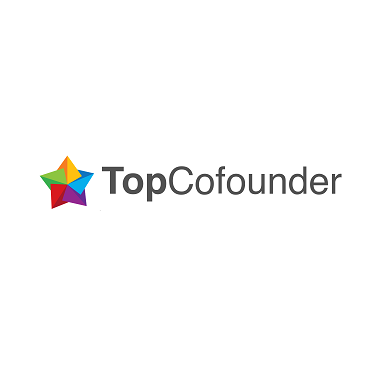
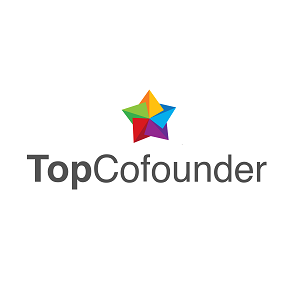
updated tasky and profile pic

Changed region(s): [[0.09, 0.3, 0.93, 0.63]]

diff --git a/content/_index.md b/content/_index.md
@@ -14,10 +14,9 @@ outputs:
 <p>I'm currently working on a startup studio.</p> -->
 
 <ul>
+  <li>Founder of <a href="http://www.topcofounder.com/">TopCofounder</a>, a startup studio that turns ideas into companies and recruits the best cofounders to run them. More details <a href="/blogs/saas/">here</a>.</li>
   <li>Senior accountant experienced with financial reporting, accounting systems, budgeting, and forecasting.</li>
   <li>Full stack web developer using React, Node.js, and cloud infrastructure (AWS & GCP).</li>
-  <li>Founder of <a href="http://www.topcofounder.com/">TopCofounder</a>, a startup studio that turns ideas into companies and recruits the best cofounders to run them. Read more <a href="/blogs/saas/">here</a>.</li>
-
 </ul>
 
 <br/>

diff --git a/content/portfolio/tasky.md b/content/portfolio/tasky.md
@@ -1,0 +1,14 @@
+---
+title: "Tasky"
+date: 2018-11-25
+featured: true
+description: "A productivity app focused on helping you get stuff done"
+image: "/img/portfolio/tasky.png"
+link: "http://tasky-productivity-app.s3-website-us-east-1.amazonaws.com"
+code: "https://github.com/russellrosario/tasky"
+weight: 400
+---
+
+A simple task app built using React on serverless AWS infrastructure (Lambda, Gateway, S3, DynamoDB). It includes authentication and Stripe payments.
+
+<b>This project was started to experiment with the Serverless Framework and using Infrastructure as Code.</b>

diff --git a/content/portfolio/javascripter.md b/content/portfolio/javascripter.md
@@ -3,7 +3,7 @@ title: "JavaScripter"
 date: 2018-07-20
 featured: true
 description: "JavaScripter is a compilation of notes during my journey from novice to full stack developer"
-image: "/img/portfolio/js.PNG"
+image: "/img/portfolio/js.png"
 link: "http://www.javascripter.co"
 weight: 200
 
